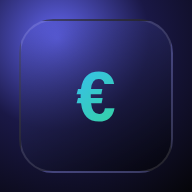
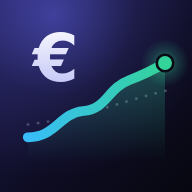
Nouvelle icône d'application : courbe de croissance et symbole €
Design aligné sur l'identité visuelle de l'app : fond indigo profond,
courbe de valeur en dégradé bleu → vert avec point final, ligne
pointillée « investi » et symbole €. Généré en 512/192/180 px depuis
le fichier source icons/icon.svg (conservé pour de futures retouches).
Cache du service worker passé en v4 pour rafraîchir les icônes.

Claude-Session: https://claude.ai/code/session_01F9ZDNLSHgg32S5Wn47JxLN

diff --git a/sw.js b/sw.js
@@ -1,4 +1,4 @@
-var CACHE_NAME = 'patrimoine-cache-v3';
+var CACHE_NAME = 'patrimoine-cache-v4';
 var ASSETS = [
   './index.html',
   './manifest.json',